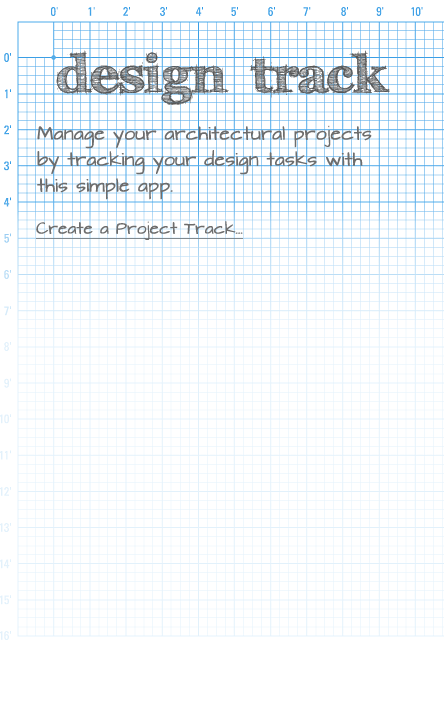
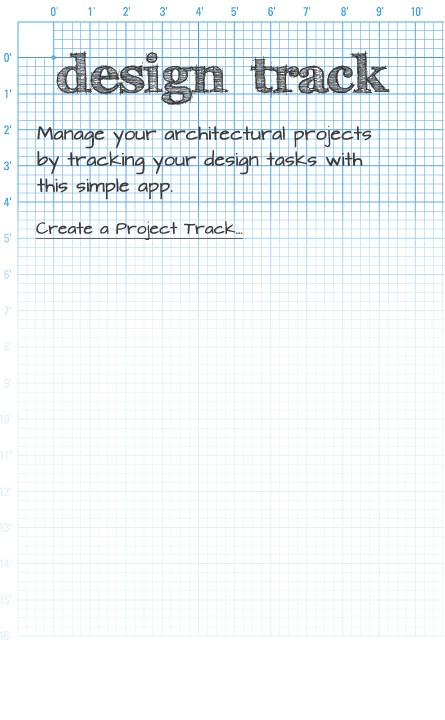
update 04

diff --git a/CSS/style.css b/CSS/style.css
@@ -22,18 +22,23 @@ label.error{
 	padding-top: 60px;
 }	
 
-#contentIndex{
+/*#contentIndex{
 	padding-top: 60px;
 	background: url(../Image/BGindex%20graphpaper.png) no-repeat white;
-}	
+}*/	
 
 /*#feature{
 	padding-left: 10px;
 	padding-right: 5px;
 }*/
 
-#txArea{
-	
+#indexBg{
+	background: url(../Image/BGindex%20graphpaper.png) no-repeat white;
+	width: 420px;
+	height: 800px;
+	padding-top: 130px;
+	margin-top: -15px;
+	margin-left: -13px;
 }
 
 #newPrjFrom{
@@ -48,14 +53,14 @@ label.error{
 }
 
 #addProject{
-	padding-right: 10px;
-	padding-left: 10px;
-	margin-top: 210px;
+	padding-right: 30px;
+	padding-left: 30px;
+	margin-top: 150px;
 }
 
 #browse{
-	padding-right: 20px;
-	padding-left: 20px;
+	padding-right: 40px;
+	padding-left: 40px;
 	margin-top: 30px;
 	height: 400px;
 }
@@ -72,228 +77,3 @@ label.error{
 	
 }
 
-/*  additem.htmal  */
-	
-/*Body{ 
-	background-color: #284767;
-	color:#284767;
-	font: 13px "Helvetica Neue", Arial, Helvetica, Geneva, sans-serif;
-}
-
-
-h1{
-	background-color: white;
-	width: 440px;
-	margin-left: -10px;
-	padding-left: 10px;
-	color:  #284767;
-	padding-top: 5px;
-	padding-bottom: 5px;
-	-moz-box-shadow: 0 0 4px #c1c1c1;
-	-webkit-box-shadow: 0 0 4px #c1c1c1;
-	box-shadow: 0 0 4px #c1c1c1;
-	border-bottom: 1px solid gray;
-	text-shadow: 2px 2px 2px rgb(123, 157, 192);
-	text-align: center;
-	font-style: "Century Gothic";
-	font-size: 36px;
-	text-transform: uppercase;
-}
-
-nav{
-	background-color: white;
-	width: 440px;
-	margin-top: 20px;
-	margin-left: -10px;
-	padding-left: 10px;
-	padding-top: 5px;
-	padding-bottom: 5px;
-	-moz-box-shadow: 0 0 4px #c1c1c1;
-	-webkit-box-shadow: 0 0 4px #c1c1c1;
-}
-
-#clear{
-	padding-right: 10px;
-	padding-left: 10px;
-}
-
-
-#display{
-	padding-right: 10px;
-	padding-left: 10px;
-}
-
-#addNew{
-	padding-right: 10px;
-	padding-left: 10px;
-}
-
-#projectFieldset{
-	margin-top: 20px;
-	background-color: #7c9ec0;
-	border: 1px solid white;
-	-moz-box-shadow: 0 0 4px #aeaeae;
-	-webkit-box-shadow: 0 0 4px #aeaeae;
-	box-shadow: 0 0 4px #aeaeae;
-	width: 410px;
-}
-
-#errors{
-	color: red;
-}
-
-#pType{
-	width: 210px;
-	}
-
-
-#projectTasksFieldset{
-	margin-top: 20px;
-	border: 1px solid white;
-	-moz-box-shadow: inset 0 0 8px rgba(41, 41, 41, 0.8), 0 0 4px #aeaeae;
-	-webkit-box-shadow: inset 0 0 8px rgba(41, 41, 41, 0.8), 0 0 4px #aeaeae;
-	box-shadow: inset 0 0 8px rgba(41, 41, 41, 0.8), 0 0 4px #aeaeae;
-	padding-top: 10px;
-}
-
-#projectInfo{
-	margin-top: 15px;
-	margin-bottom: 2px;
-}
-
-.pInfo{
-	display: block;
-	width: 200px;
-}
-
-#newPrjTl{
-	text-shadow: 2px 2px 2px rgba(255, 255, 255, 0.75);
-	color: #284767;
-	font-size: 20px;
-	margin-top: 0;
-}
-
-
-h3{
-	text-shadow: 2px 2px 2px rgba(255, 255, 255, 0.75);
-	color: #284767;
-	font-size: 18px;
-	margin-top: 0;
-}
-
-ul{
-	display: block;
-	margin-top: 10px;
-	margin-bottom: 10px;
-}
-
-
-label{
-	margin-right: 20px;
-	left: 30px;
-}
-
-#items{
-	color: white;
-	border-top: 1px solid white;
-	border-bottom: 1px solid white;
-	margin-top: 20px;
-	margin-bottom: 20px;
-	width: 430px;
-	
-}
-
-#listDispData{
-	
-}
-
-#work{
-	margin-top: 10px;
-}
-
-
-.commentArea{
-	margin-top: 10px;
-	width: 200px;
-}
-
-#rend{
-	display: block;
-	margin-top: 10px;
-}
-
-
-#submit{
-	margin-top: 15px;
-	margin-bottom: 5px;
-}
-
-/*  index.html  *!/
-
-#search{
-	position: static;
-	margin-bottom: -10px;
-	text-align: right;
-}
-
-#createProject{
-	margin-top: 40px;
-	background-color: #7c9ec0;
-	border: 2px solid white;
-	-moz-box-shadow: 0 0 4px #aeaeae;
-	-webkit-box-shadow: 0 0 4px #aeaeae;
-	box-shadow: 0 0 4px #aeaeae;
-	width: 410px;
-	height: 80px;
-	padding-top: 10px;
-}
-
-
-#Browse{
-	margin-top: 40px;
-	background-color: #7c9ec0;
-	border: 2px solid white;
-	-moz-box-shadow: 0 0 4px #aeaeae;
-	-webkit-box-shadow: 0 0 4px #aeaeae;
-	box-shadow: 0 0 4px #aeaeae;
-	width: 410px;
-	height: 230px;
-	padding-top: 10px;
-}
-
-.brws{
-	width: 410px;
-	margin-left: -40px;
-}
-
-
-#prjTrackTl{
-	text-shadow: 2px 2px 2px rgba(255, 255, 255, 0.75);
-	color: #284767;
-	font-size: 20px;
-	margin-top: 0;
-}
-
-#browsePrj{
-	text-shadow: 2px 2px 2px rgba(255, 255, 255, 0.75);
-	color: #284767;
-	font-size: 20px;
-	margin-top: 0;
-}
-
-#addProject{
-	margin-top: 15px;
-	margin-bottom: 5px;
-	margin-left: 160px;
-}
-
-#mess{
-	color: white;
-	font-size: 13px;
-	padding-top: 10px;
-	padding-right: 20px;
-	padding-left: 20px;
-	margin-bottom: -10px;
-	width: 410px;
-}
-*/

diff --git a/index.html b/index.html
@@ -36,6 +36,7 @@
 		<div data-role="content" id="contentIndex">
 			
 			<!--<p id="feature">Manage your architectural projects by tracking your design tasks with this simple app.</p>-->
+			<div id="indexBg">
 			
 			<div id="addProject">
 				<!--<h4>Create a Project Track</h4>-->
@@ -43,7 +44,6 @@
 			</div>
 			
 
-			
 			<div data-role="collapsible-set" id="browse">
 					
 				<div data-role="collapsible" id="browsePrj" >
@@ -94,6 +94,8 @@
 					</ul>
 				</div>
 				
+			</div>
+			
 			</div>
 			
 		</div>
